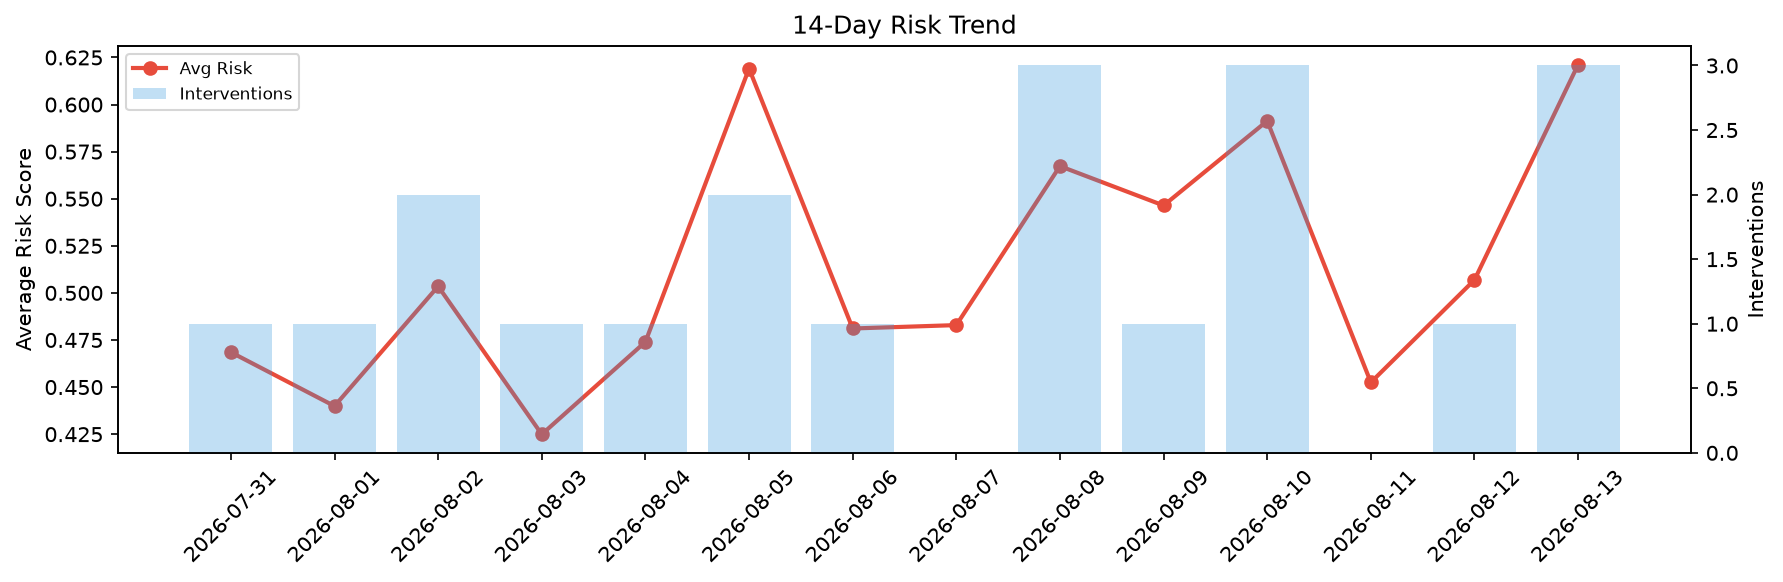
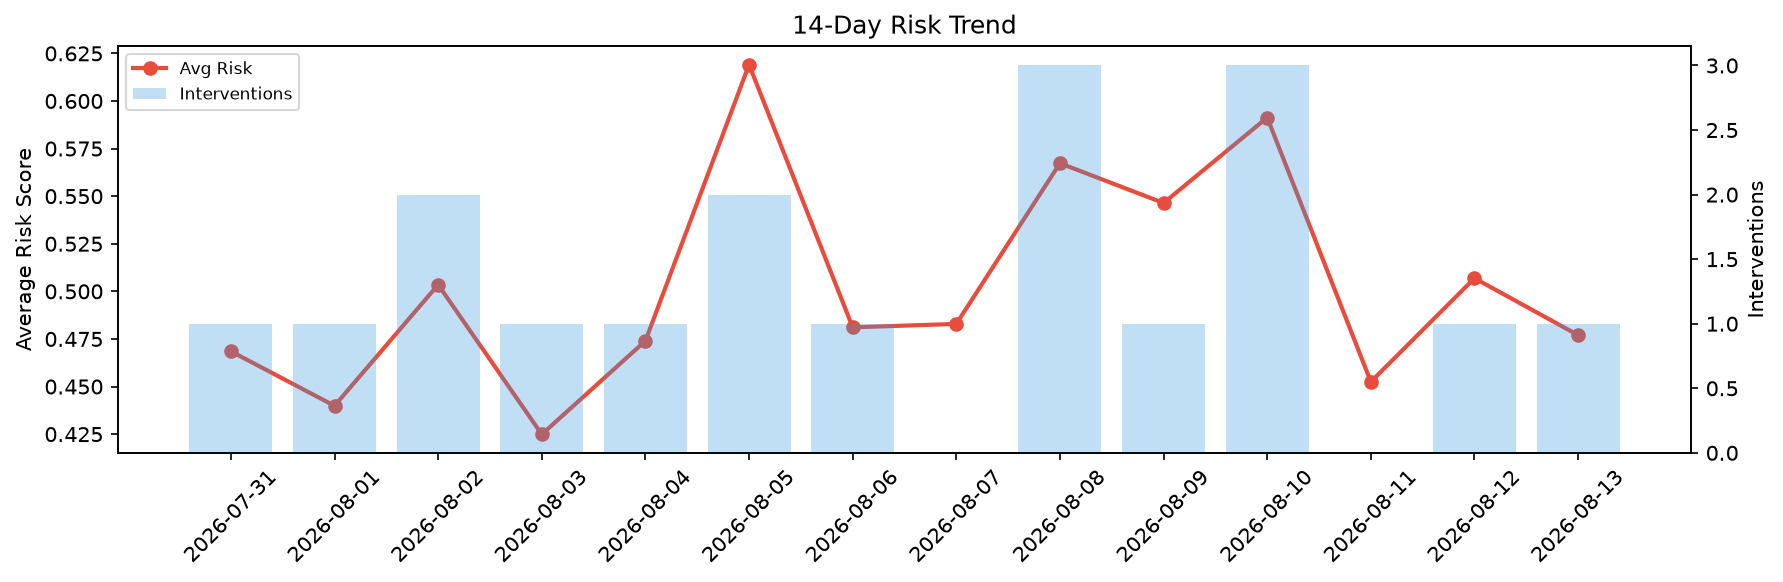
agent-improvement: daily cycle 2026-08-13T21:00

diff --git a/logs/2026-08-13.md b/logs/2026-08-13.md
@@ -1,6 +1,6 @@
 # Agent Improvement Report — 2026-08-13
 
-**Cycle ID:** `df0c3559` | **Avg Risk:** 0.6212 | **Interventions:** 3/4
+**Cycle ID:** `9398a586` | **Avg Risk:** 0.477 | **Interventions:** 1/4
 
 ![Dashboard](2026-08-13_dashboard.png)
 
@@ -10,18 +10,18 @@
 
 | Domain | Risk Score | Decision | Alerts |
 |--------|-----------|----------|--------|
-| code_review | 0.7626 | intervene | complexity, duplication |
-| incident_response | 0.6412 | intervene | severity |
-| data_pipeline | 0.6265 | intervene | volume_anomaly |
-| deployment | 0.4546 | monitor | rollback_rate |
+| code_review | 0.327 | monitor | none |
+| incident_response | 0.3926 | monitor | none |
+| data_pipeline | 0.4911 | monitor | freshness |
+| deployment | 0.6973 | intervene | canary_error, latency_p99 |
 
 ## Delta vs Yesterday
 
 | Domain | Today | Yesterday | Change |
 |--------|-------|-----------|--------|
-| code_review | 0.7626 | 0.3997 | 📈 90.8% |
-| incident_response | 0.6412 | 0.497 | 📈 29.0% |
-| data_pipeline | 0.6265 | 0.4876 | 📈 28.5% |
-| deployment | 0.4546 | 0.6432 | 📉 -29.3% |
+| code_review | 0.327 | 0.3997 | 📉 -18.2% |
+| incident_response | 0.3926 | 0.497 | 📉 -21.0% |
+| data_pipeline | 0.4911 | 0.4876 | 📈 0.7% |
+| deployment | 0.6973 | 0.6432 | 📈 8.4% |
 
-**Refinement:** `{'adjustment': 'maintain', 'trend': 'improving', 'window': 4}`
+**Refinement:** `{'adjustment': 'tighten_thresholds', 'trend': 'degrading', 'window': 4}`
